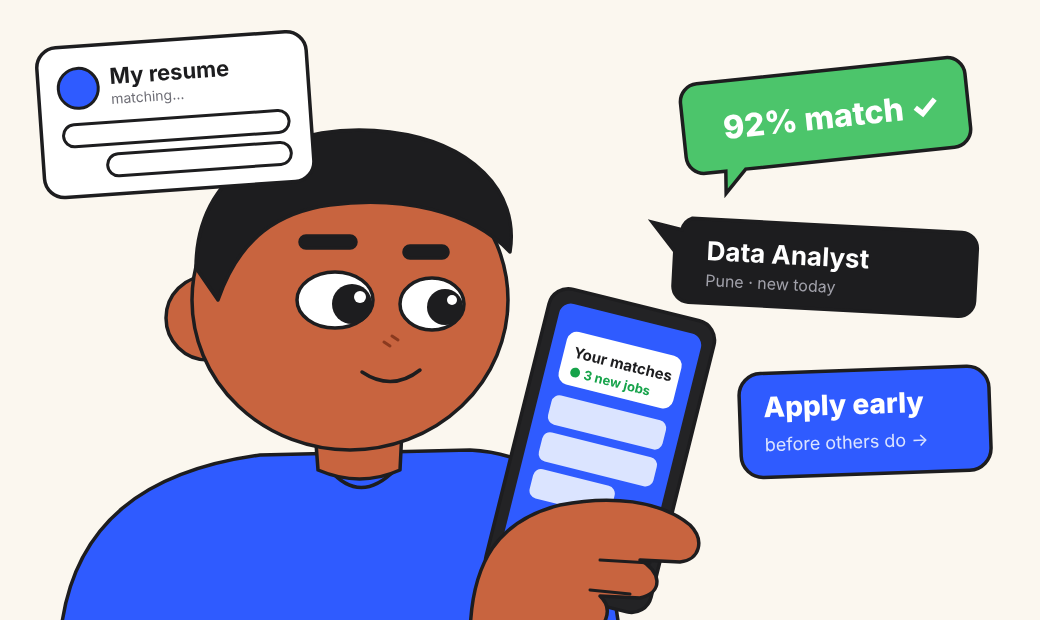
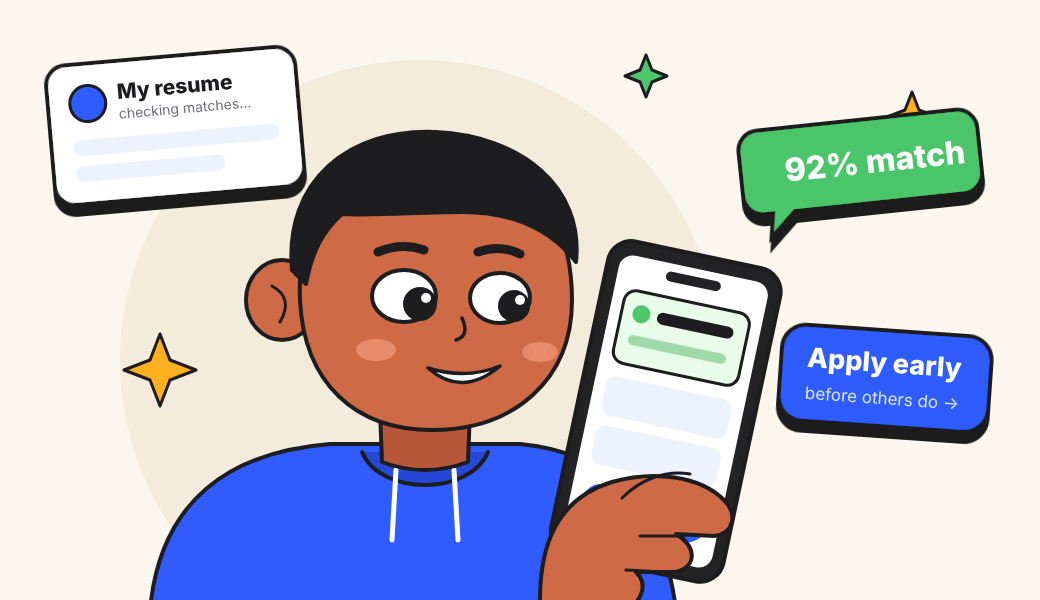
Email: better illustration; job title and name are plain text to edit
The job title moved out of the picture into a match card under it, so
[Name] and [Job Title] are the only two things to change, each marked
with an EDIT comment.

Claude-Session: https://claude.ai/code/session_01JYizkYjFHcXFzsHdyNFWvt

diff --git a/docs/emails/resume-match.html b/docs/emails/resume-match.html
@@ -6,10 +6,14 @@
 <title>Your resume matches a job opportunity</title>
 <!--
   Cheatcode email: "Your resume matches a job opportunity"
-  Campaign name: resume_match_nov26 (in the button link and the pixel URL below).
-  Before sending: replace [Name] with the person's first name.
-  For a new send, change resume_match_nov26 in BOTH places to a new name
-  (letters, numbers, - and _ only) so /admin/emails counts it separately.
+
+  TO EDIT BEFORE SENDING (search for "EDIT:"; change only the words in brackets):
+    1. [Name]       the person's first name
+    2. [Job Title]  the job shown in the match card under the picture
+
+  Campaign name: resume_match_nov26, in the button link and the pixel at the
+  bottom. For a different send, change it in BOTH places (letters, numbers,
+  - and _ only) so /admin/emails counts it separately.
 -->
 </head>
 <body style="margin:0;padding:0;background:#eef2fb;">
@@ -21,11 +25,22 @@
       <table role="presentation" width="100%" cellpadding="0" cellspacing="0" border="0" style="background:#fbf7ef;border-radius:18px;">
         <tr><td align="center" style="padding:30px 24px 6px 24px;font-family:-apple-system,'Segoe UI',Roboto,Helvetica,Arial,sans-serif;">
           <div style="font-size:16px;font-weight:700;color:#0b0b0f;letter-spacing:-0.2px;">Cheatcode</div>
+          <!-- EDIT: name -->
           <div style="margin-top:18px;font-size:15px;color:#6e6e76;">Hi [Name],</div>
           <h1 style="margin:8px 0 0 0;font-size:30px;line-height:1.2;font-weight:800;color:#0b0b0f;letter-spacing:-0.5px;">Your resume matches a job&nbsp;<span style="color:#2f5bff;">opportunity.</span></h1>
         </td></tr>
         <tr><td align="center" style="padding:18px 0 0 0;">
-          <img src="https://www.cheatcodeapp.com/email/resume-match-hero.png" width="536" alt="A student checking the jobs his resume matches" style="display:block;width:100%;max-width:536px;height:auto;border:0;border-radius:0 0 18px 18px;">
+          <img src="https://www.cheatcodeapp.com/email/resume-match-hero.png" width="536" alt="A student checking the jobs his resume matches" style="display:block;width:100%;max-width:536px;height:auto;border:0;">
+        </td></tr>
+        <tr><td align="center" style="padding:0 24px 26px 24px;font-family:-apple-system,'Segoe UI',Roboto,Helvetica,Arial,sans-serif;">
+          <table role="presentation" cellpadding="0" cellspacing="0" border="0" width="100%" style="background:#ffffff;border:3px solid #1d1d1f;border-radius:16px;">
+            <tr><td align="left" style="padding:14px 20px;">
+              <div style="font-size:12px;font-weight:700;letter-spacing:0.6px;text-transform:uppercase;color:#16a34a;">&#9679; Top match for you</div>
+              <!-- EDIT: job title -->
+              <div style="margin-top:4px;font-size:21px;font-weight:800;color:#0b0b0f;">[Job Title]</div>
+              <div style="margin-top:4px;font-size:13px;color:#6e6e76;">&#128274; Company name hidden</div>
+            </td></tr>
+          </table>
         </td></tr>
       </table>
     </td></tr>
